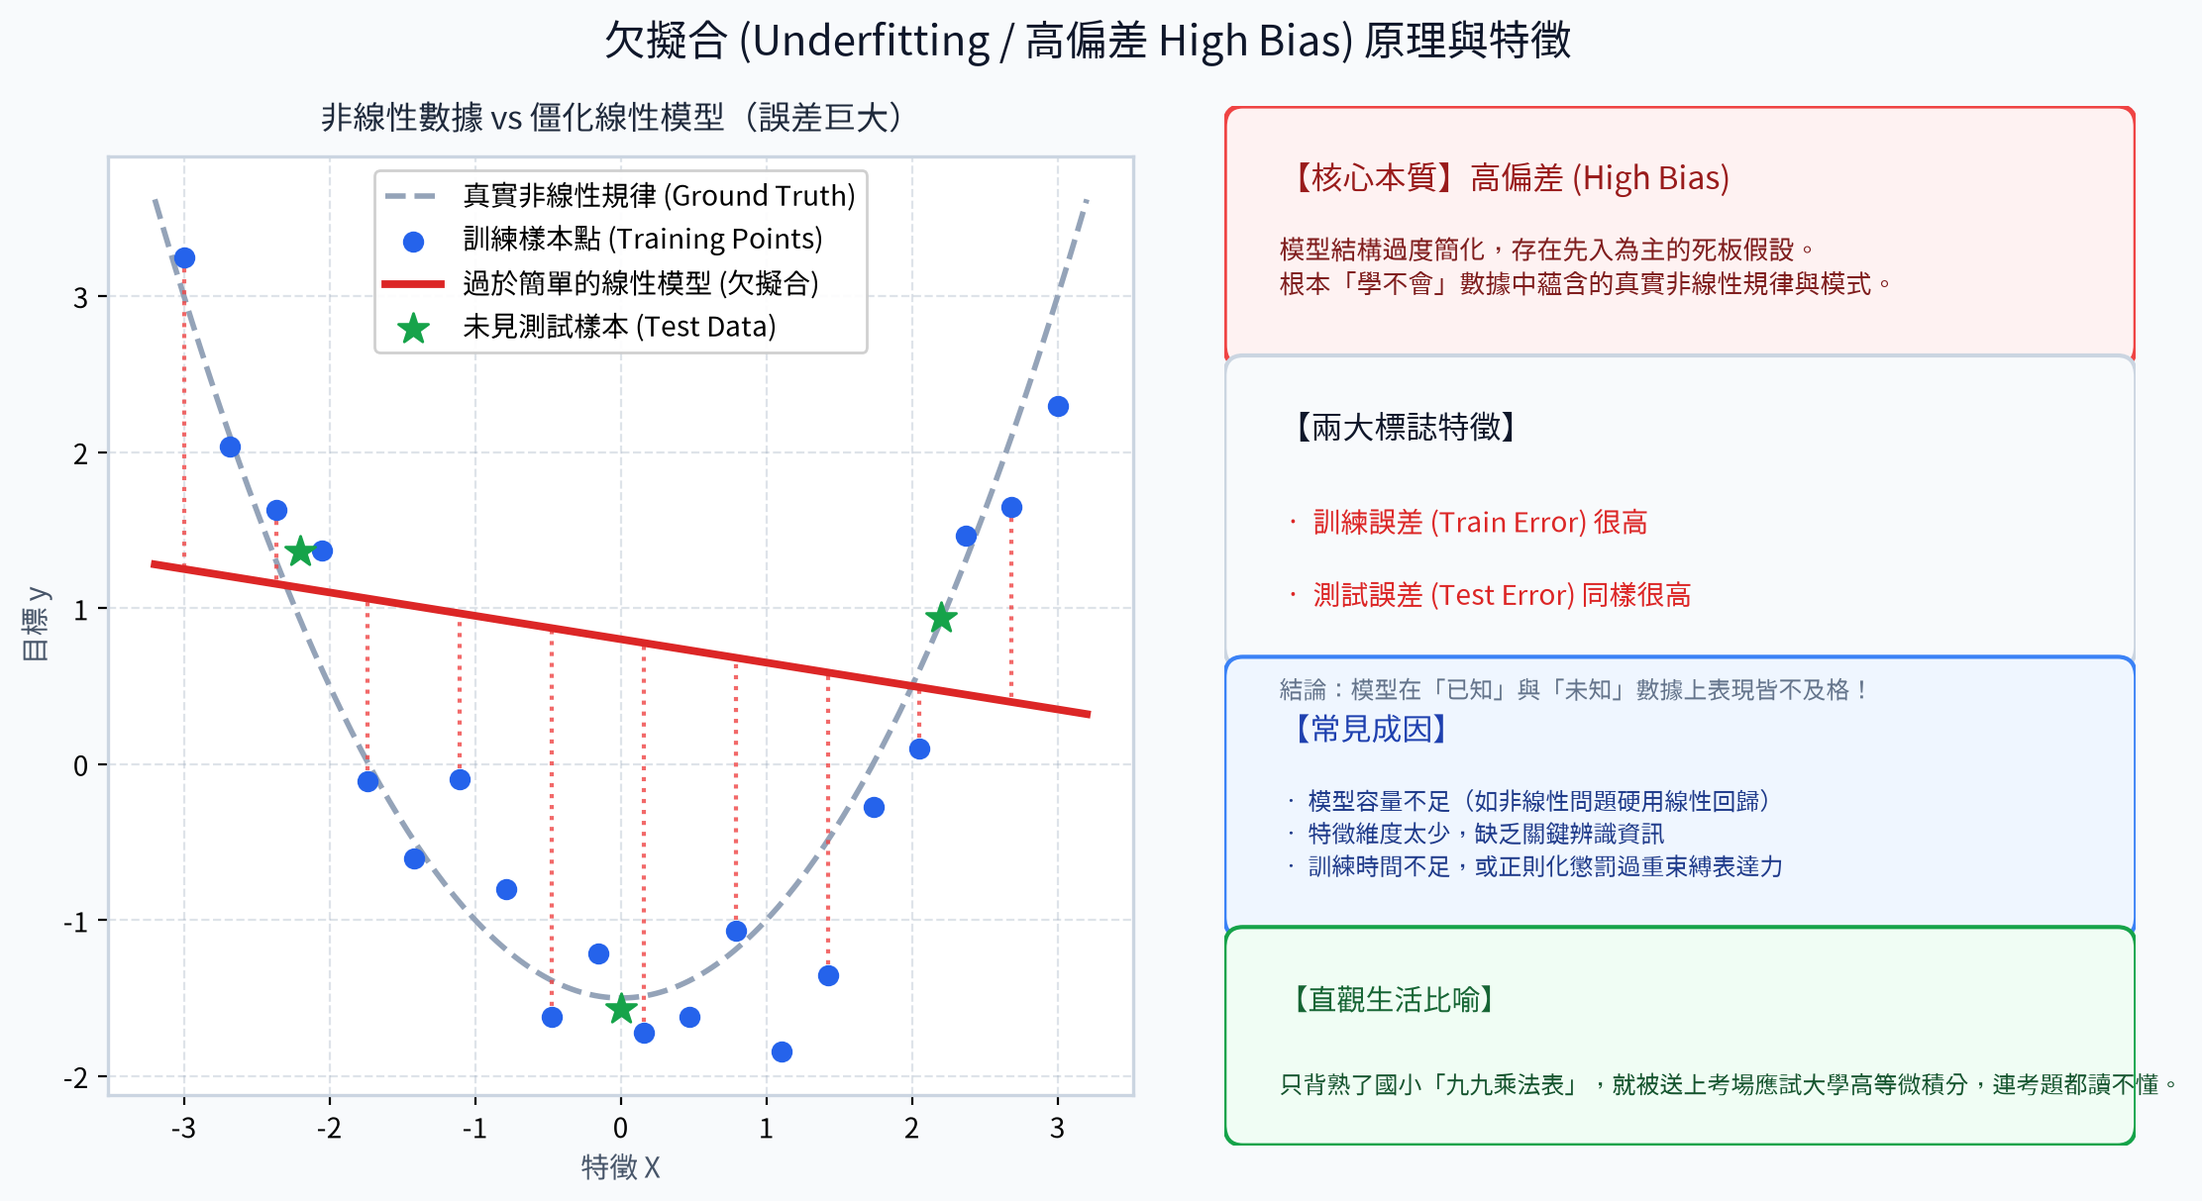
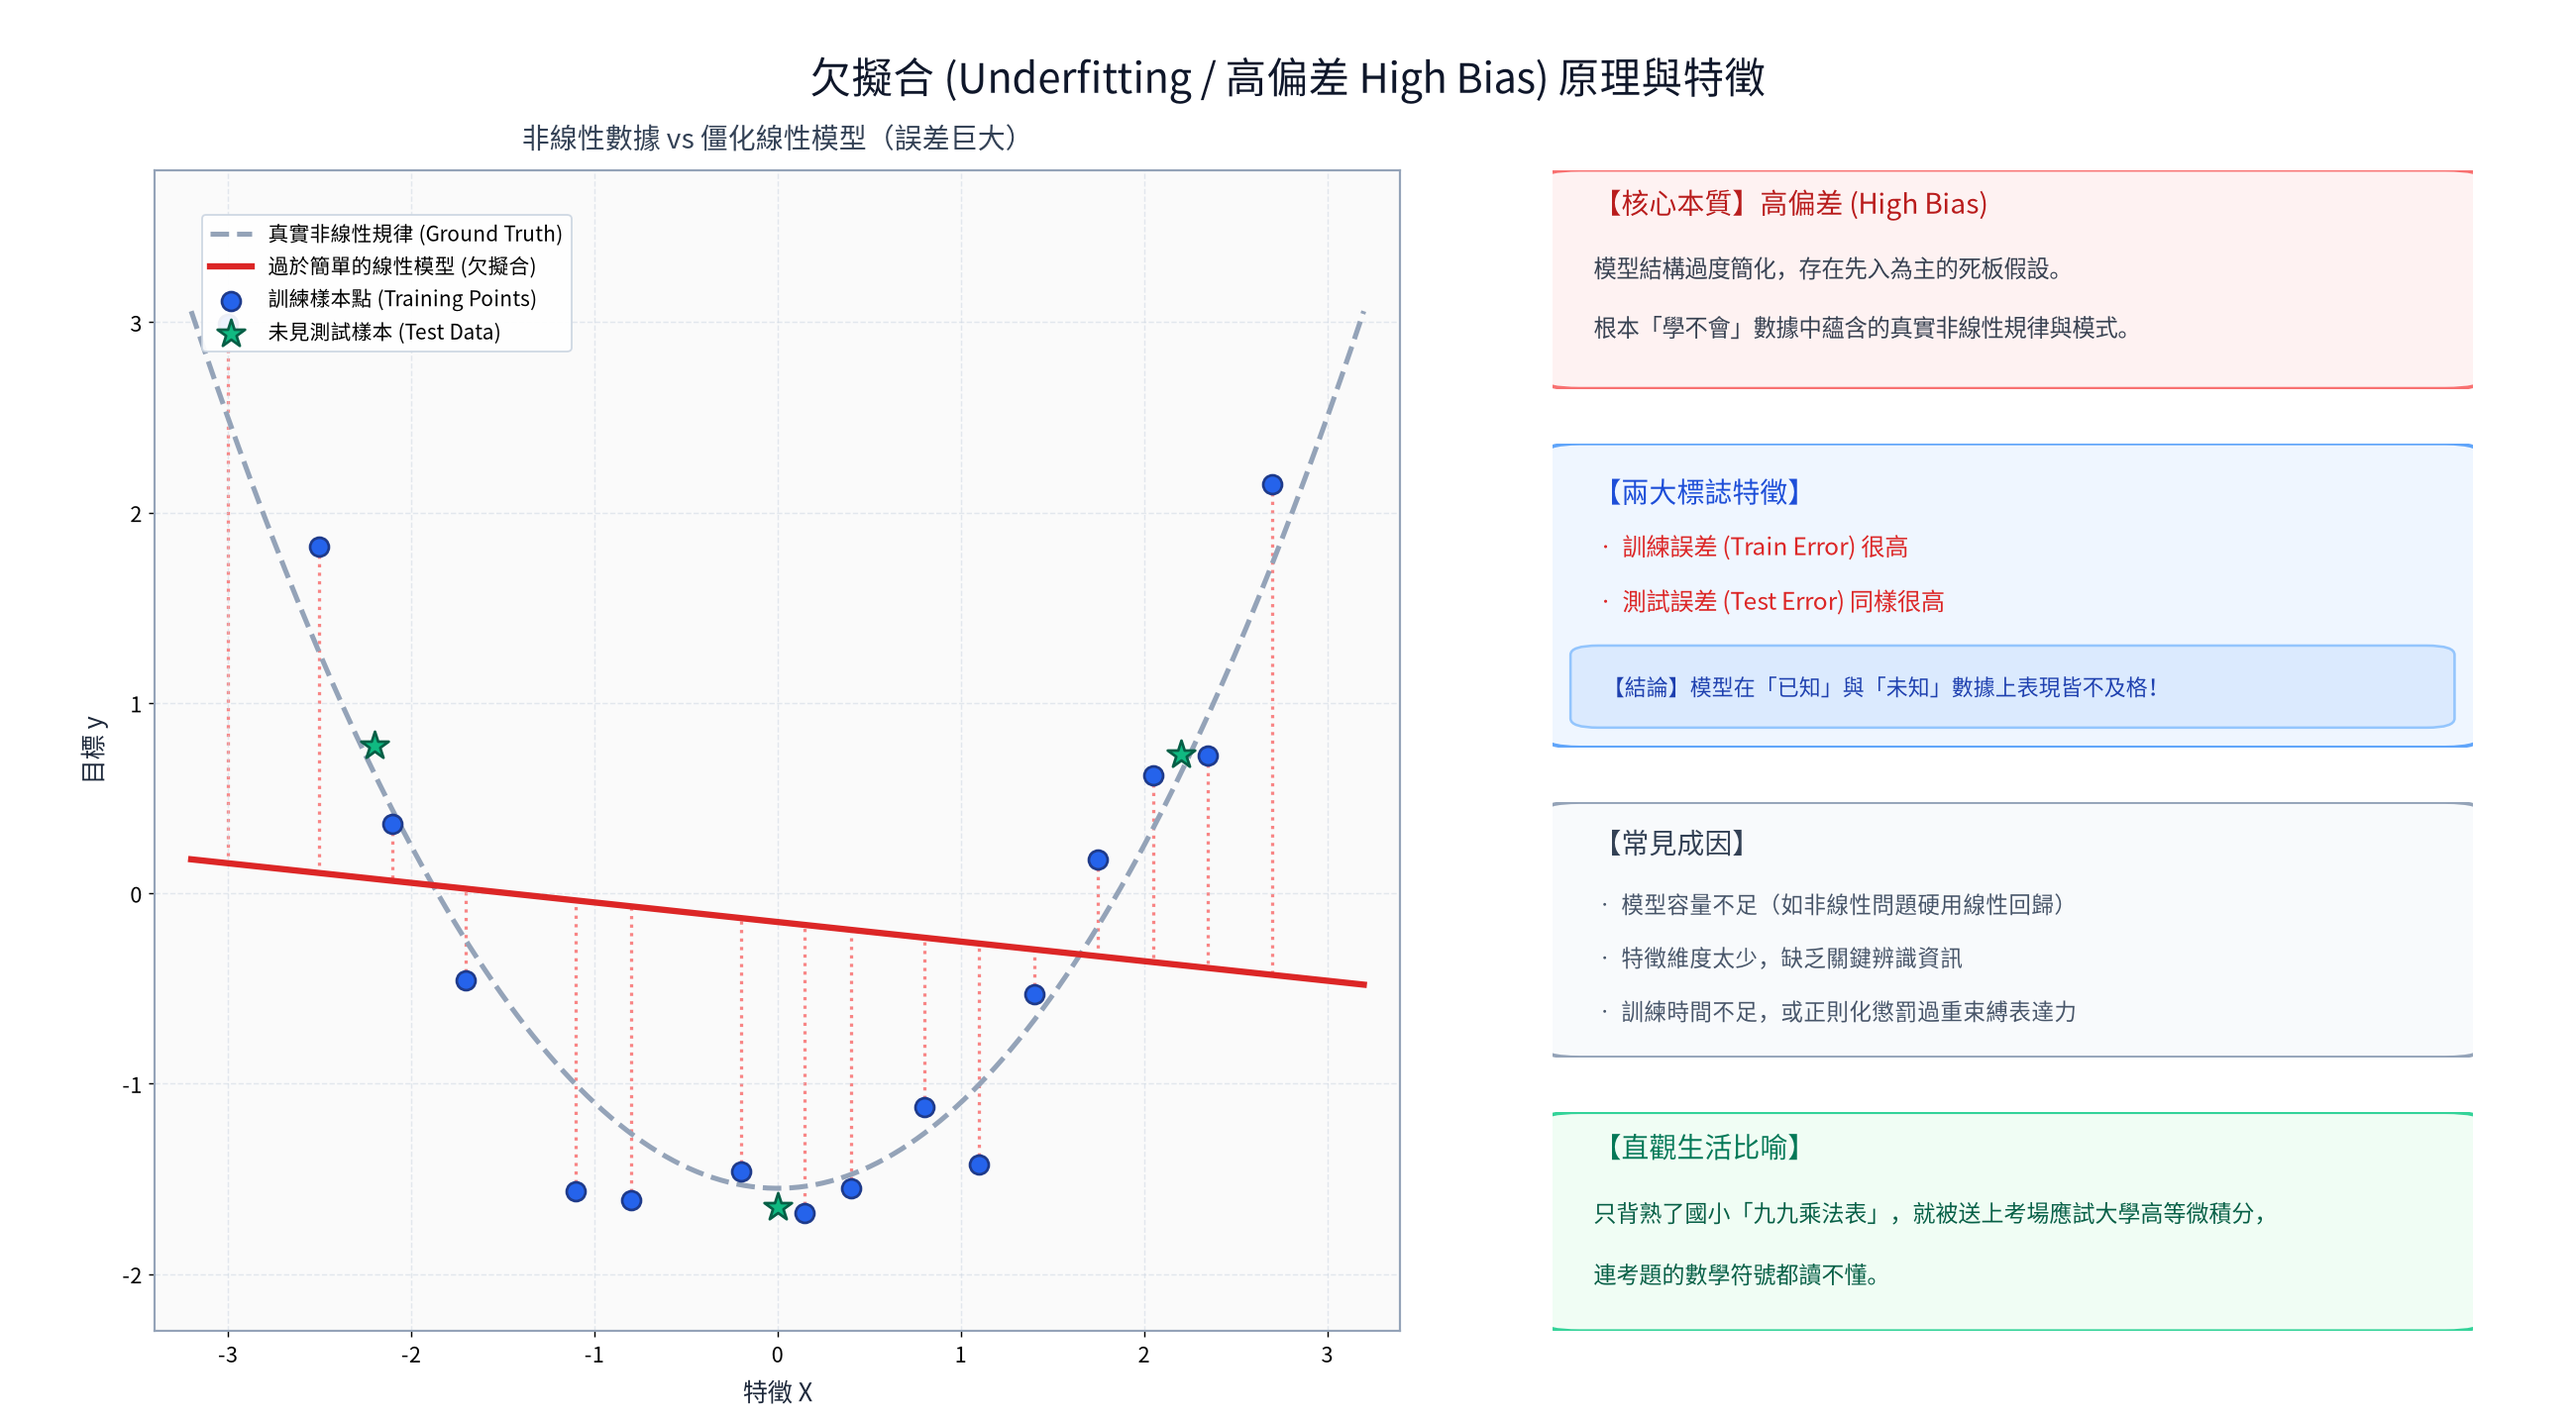
feat: add script to generate model performance charts and update underfitting and overfitting images

diff --git a/名詞解釋/10_模型性能問題/draw_model_performance_charts.py b/名詞解釋/10_模型性能問題/draw_model_performance_charts.py
@@ -1,0 +1,297 @@
+import os
+import glob
+import numpy as np
+import matplotlib.pyplot as plt
+from matplotlib import font_manager
+from matplotlib.patches import FancyBboxPatch
+import mplfonts
+from mplfonts import use_font
+
+# 1. 配置中文字型
+for f in glob.glob(os.path.join(os.path.dirname(mplfonts.__file__), "fonts", "*.[ot]tf")):
+    font_manager.fontManager.addfont(f)
+
+local_font = os.path.abspath(os.path.join("..", "ChineseFont.ttf"))
+if os.path.exists(local_font):
+    font_manager.fontManager.addfont(local_font)
+
+use_font("Noto Sans CJK SC")
+plt.rcParams["axes.unicode_minus"] = False
+
+# 2. 準備共享數據
+np.random.seed(42)
+# 真實非線性規律 f(x) = 0.45 * x^2 - 1.55
+def ground_truth(x):
+    return 0.45 * x**2 - 1.55
+
+# 訓練樣本點 (16 個點)
+X_train = np.array([-3.0, -2.5, -2.1, -1.7, -1.1, -0.8, -0.2, 0.15, 0.4, 0.8, 1.1, 1.4, 1.75, 2.05, 2.35, 2.7])
+noise = np.array([0.7, 0.8, -0.1, -0.3, -0.8, -0.5, 0.1, -0.2, -0.1, 0.2, -0.6, 0.2, 0.5, 0.4, -0.3, 0.6]) * 0.7
+y_train = ground_truth(X_train) + noise
+
+# 密集繪圖點
+x_dense = np.linspace(-3.2, 3.2, 300)
+y_dense_truth = ground_truth(x_dense)
+
+# 測試樣本點 (未見新數據)
+X_test_under = np.array([-2.2, 0.0, 2.2])
+y_test_under = ground_truth(X_test_under) + np.array([0.15, -0.1, 0.1])
+
+X_test_over = np.array([-2.5, -0.6, 1.2, 2.7])
+y_test_over = ground_truth(X_test_over) + np.array([-0.2, 0.1, 0.15, 0.25])
+
+
+def draw_card(ax, border_color, bg_color, title, title_color, body_lines, footer_badge=None):
+    ax.axis("off")
+    ax.set_xlim(0, 1)
+    ax.set_ylim(0, 1)
+    
+    # 繪製圓角卡片背景
+    card = FancyBboxPatch(
+        (0.01, 0.02), 0.98, 0.96,
+        boxstyle="round,pad=0.02,rounding_size=0.04",
+        edgecolor=border_color,
+        facecolor=bg_color,
+        linewidth=2.0,
+        zorder=1
+    )
+    ax.add_patch(card)
+    
+    # 卡片標題
+    ax.text(0.045, 0.84, title, fontsize=15.5, color=title_color, va="center", zorder=2)
+    
+    # 內文 lines
+    for line in body_lines:
+        ax.text(0.045, line["y"], line["text"], fontsize=line.get("size", 13), 
+                color=line.get("color", "#374151"), va="center", zorder=2)
+        
+    # 底部結論徽章 (若有，位置明確設定在 y=0.08 到 0.32)
+    if footer_badge:
+        badge_box = FancyBboxPatch(
+            (0.035, 0.08), 0.93, 0.24,
+            boxstyle="round,pad=0.015,rounding_size=0.03",
+            edgecolor=footer_badge["border"],
+            facecolor=footer_badge["bg"],
+            linewidth=1.4,
+            zorder=2
+        )
+        ax.add_patch(badge_box)
+        ax.text(0.055, 0.20, footer_badge["text"], fontsize=12.2,
+                color=footer_badge["color"], va="center", zorder=3)
+
+
+# ==========================================
+# 圖 1: 欠擬合 (Underfitting)
+# ==========================================
+def generate_underfitting_image(out_path):
+    fig = plt.figure(figsize=(20, 11), dpi=130, facecolor="#ffffff")
+    fig.suptitle("欠擬合 (Underfitting / 高偏差 High Bias) 原理與特徵", fontsize=23, color="#0f172a", y=0.96)
+    
+    # 使用不等高比例 height_ratios: 卡片2高度設為 1.25，確保三層資訊極致寬敞絕不重疊
+    gs = fig.add_gridspec(nrows=4, ncols=2, width_ratios=[1.15, 0.85], 
+                           height_ratios=[0.9, 1.25, 1.05, 0.9],
+                           left=0.06, right=0.96, bottom=0.06, top=0.88, 
+                           hspace=0.22, wspace=0.14)
+    
+    # --- 左側圖表 ---
+    ax_plot = fig.add_subplot(gs[:, 0])
+    ax_plot.set_facecolor("#fafafa")
+    ax_plot.grid(True, linestyle="--", color="#cbd5e1", alpha=0.5, zorder=0)
+    
+    # 1. 真實非線性規律
+    ax_plot.plot(x_dense, y_dense_truth, linestyle="--", color="#94a3b8", linewidth=2.8, label="真實非線性規律 (Ground Truth)", zorder=2)
+    
+    # 2. 欠擬合模型 (線性回歸直線)
+    poly1 = np.polyfit(X_train, y_train, deg=1)
+    y_pred_under_dense = np.polyval(poly1, x_dense)
+    y_pred_under_train = np.polyval(poly1, X_train)
+    ax_plot.plot(x_dense, y_pred_under_dense, color="#dc2626", linewidth=3.5, label="過於簡單的線性模型 (欠擬合)", zorder=3)
+    
+    # 3. 殘差線
+    for xi, yi, y_hat in zip(X_train, y_train, y_pred_under_train):
+        ax_plot.plot([xi, xi], [yi, y_hat], linestyle=":", color="#f87171", linewidth=1.8, alpha=0.85, zorder=1)
+        
+    # 4. 訓練樣本點
+    ax_plot.scatter(X_train, y_train, s=110, color="#2563eb", edgecolor="#1e3a8a", linewidth=1.5, label="訓練樣本點 (Training Points)", zorder=4)
+    
+    # 5. 未見測試樣本
+    ax_plot.scatter(X_test_under, y_test_under, s=260, marker="*", color="#10b981", edgecolor="#065f46", linewidth=1.5, label="未見測試樣本 (Test Data)", zorder=5)
+    
+    ax_plot.set_title("非線性數據 vs 僵化線性模型（誤差巨大）", fontsize=15.5, pad=12, color="#334155")
+    ax_plot.set_xlabel("特徵 X", fontsize=14, labelpad=8, color="#1e293b")
+    ax_plot.set_ylabel("目標 y", fontsize=14, labelpad=8, color="#1e293b")
+    ax_plot.set_xlim(-3.4, 3.4)
+    ax_plot.set_ylim(-2.3, 3.8)
+    ax_plot.tick_params(labelsize=12)
+    ax_plot.legend(loc="upper left", bbox_to_anchor=(0.03, 0.97), framealpha=0.92, facecolor="#ffffff", edgecolor="#cbd5e1", fontsize=11.5)
+    
+    for spine in ax_plot.spines.values():
+        spine.set_color("#94a3b8")
+        spine.set_linewidth(1.2)
+        
+    # --- 右側 4 個卡片 ---
+    # 卡片 1: 核心本質
+    ax1 = fig.add_subplot(gs[0, 1])
+    draw_card(
+        ax1, border_color="#f87171", bg_color="#fef2f2",
+        title="【核心本質】高偏差 (High Bias)", title_color="#b91c1c",
+        body_lines=[
+            {"text": "模型結構過度簡化，存在先入為主的死板假設。", "size": 13, "y": 0.55, "color": "#374151"},
+            {"text": "根本「學不會」數據中蘊含的真實非線性規律與模式。", "size": 13, "y": 0.28, "color": "#374151"}
+        ]
+    )
+    
+    # 卡片 2: 兩大標誌特徵 (高 1.25，Y 軸精確分佈在 0.84, 0.66, 0.48, 徽章在 0.08~0.32)
+    ax2 = fig.add_subplot(gs[1, 1])
+    draw_card(
+        ax2, border_color="#60a5fa", bg_color="#eff6ff",
+        title="【兩大標誌特徵】", title_color="#1d4ed8",
+        body_lines=[
+            {"text": "• 訓練誤差 (Train Error) 很高", "size": 13.5, "color": "#dc2626", "y": 0.66},
+            {"text": "• 測試誤差 (Test Error) 同樣很高", "size": 13.5, "color": "#dc2626", "y": 0.48}
+        ],
+        footer_badge={
+            "border": "#93c5fd", "bg": "#dbeafe",
+            "color": "#1e40af", "text": "【結論】模型在「已知」與「未知」數據上表現皆不及格！"
+        }
+    )
+    
+    # 卡片 3: 常見成因
+    ax3 = fig.add_subplot(gs[2, 1])
+    draw_card(
+        ax3, border_color="#94a3b8", bg_color="#f8fafc",
+        title="【常見成因】", title_color="#334155",
+        body_lines=[
+            {"text": "• 模型容量不足（如非線性問題硬用線性回歸）", "size": 12.5, "y": 0.60, "color": "#475569"},
+            {"text": "• 特徵維度太少，缺乏關鍵辨識資訊", "size": 12.5, "y": 0.39, "color": "#475569"},
+            {"text": "• 訓練時間不足，或正則化懲罰過重束縛表達力", "size": 12.5, "y": 0.18, "color": "#475569"}
+        ]
+    )
+    
+    # 卡片 4: 直觀生活比喻
+    ax4 = fig.add_subplot(gs[3, 1])
+    draw_card(
+        ax4, border_color="#34d399", bg_color="#f0fdf4",
+        title="【直觀生活比喻】", title_color="#047857",
+        body_lines=[
+            {"text": "只背熟了國小「九九乘法表」，就被送上考場應試大學高等微積分，", "size": 12.8, "y": 0.54, "color": "#065f46"},
+            {"text": "連考題的數學符號都讀不懂。", "size": 12.8, "y": 0.26, "color": "#065f46"}
+        ]
+    )
+    
+    plt.savefig(out_path, dpi=130, facecolor=fig.get_facecolor(), edgecolor="none")
+    plt.close()
+    print(f"成功生成欠擬合圖片: {out_path}")
+
+
+# ==========================================
+# 圖 2: 過度擬合 (Overfitting)
+# ==========================================
+def generate_overfitting_image(out_path):
+    fig = plt.figure(figsize=(20, 11), dpi=130, facecolor="#ffffff")
+    fig.suptitle("過度擬合 (Overfitting / 高變異數 High Variance) 原理與特徵", fontsize=23, color="#0f172a", y=0.96)
+    
+    gs = fig.add_gridspec(nrows=4, ncols=2, width_ratios=[1.15, 0.85], 
+                           height_ratios=[0.9, 1.25, 1.05, 0.9],
+                           left=0.06, right=0.96, bottom=0.06, top=0.88, 
+                           hspace=0.22, wspace=0.14)
+    
+    # --- 左側圖表 ---
+    ax_plot = fig.add_subplot(gs[:, 0])
+    ax_plot.set_facecolor("#fafafa")
+    ax_plot.grid(True, linestyle="--", color="#cbd5e1", alpha=0.5, zorder=0)
+    
+    # 1. 真實規律
+    ax_plot.plot(x_dense, y_dense_truth, linestyle="--", color="#94a3b8", linewidth=2.8, label="真實規律 (Ground Truth)", zorder=2)
+    
+    # 2. 過擬合模型
+    poly_over = np.polyfit(X_train, y_train, deg=11)
+    y_pred_over_dense = np.polyval(poly_over, x_dense)
+    ax_plot.plot(x_dense, y_pred_over_dense, color="#9333ea", linewidth=3.5, label="過度複雜的高階模型 (過擬合)", zorder=3)
+    
+    # 3. 訓練樣本點
+    ax_plot.scatter(X_train, y_train, s=110, color="#2563eb", edgecolor="#1e3a8a", linewidth=1.5, label="訓練樣本點 (含隨機雜訊)", zorder=4)
+    
+    # 4. 新測試樣本
+    ax_plot.scatter(X_test_over, y_test_over, s=260, marker="*", color="#10b981", edgecolor="#065f46", linewidth=1.5, label="新測試樣本 (Test Data)", zorder=5)
+    
+    # 標註提示
+    ax_plot.annotate("死記雜訊導致\n兩端劇烈翹曲！", xy=(-3.0, 3.8), xytext=(-2.7, 4.5),
+                    arrowprops=dict(facecolor="#9333ea", shrink=0.08, width=1.5, headwidth=6),
+                    fontsize=11.5, color="#7e22ce")
+    
+    ax_plot.set_title("死記硬背雜訊 vs 泛化能力崩潰", fontsize=15.5, pad=12, color="#334155")
+    ax_plot.set_xlabel("特徵 X", fontsize=14, labelpad=8, color="#1e293b")
+    ax_plot.set_ylabel("目標 y", fontsize=14, labelpad=8, color="#1e293b")
+    ax_plot.set_xlim(-3.4, 3.4)
+    ax_plot.set_ylim(-3.3, 5.3)
+    ax_plot.tick_params(labelsize=12)
+    ax_plot.legend(loc="upper center", bbox_to_anchor=(0.50, 0.98), framealpha=0.92, facecolor="#ffffff", edgecolor="#cbd5e1", fontsize=11.5)
+    
+    for spine in ax_plot.spines.values():
+        spine.set_color("#94a3b8")
+        spine.set_linewidth(1.2)
+        
+    # --- 右側 4 個卡片 ---
+    # 卡片 1: 核心本質
+    ax1 = fig.add_subplot(gs[0, 1])
+    draw_card(
+        ax1, border_color="#c084fc", bg_color="#faf5ff",
+        title="【核心本質】高變異數 (High Variance)", title_color="#7e22ce",
+        body_lines=[
+            {"text": "模型容量過大，過分敏感於訓練集中的細微雜訊。", "size": 13, "y": 0.55, "color": "#374151"},
+            {"text": "連偶發的數據缺陷與噪點都全盤硬背吸收，喪失泛化能力。", "size": 13, "y": 0.28, "color": "#374151"}
+        ]
+    )
+    
+    # 卡片 2: 兩大標誌特徵 (含泛化鴻溝徽章，絕對不重疊)
+    ax2 = fig.add_subplot(gs[1, 1])
+    draw_card(
+        ax2, border_color="#60a5fa", bg_color="#eff6ff",
+        title="【兩大標誌特徵】", title_color="#1d4ed8",
+        body_lines=[
+            {"text": "• 訓練誤差 (Train Error) 極低 (甚至為 0)", "size": 13.5, "color": "#16a34a", "y": 0.66},
+            {"text": "• 測試誤差 (Test Error) 嚴重飆高", "size": 13.5, "color": "#dc2626", "y": 0.48}
+        ],
+        footer_badge={
+            "border": "#fca5a5", "bg": "#fee2e2",
+            "color": "#b91c1c", "text": "【結論】兩者形成巨大「泛化鴻溝 (Generalization Gap)」！"
+        }
+    )
+    
+    # 卡片 3: 常見成因
+    ax3 = fig.add_subplot(gs[2, 1])
+    draw_card(
+        ax3, border_color="#94a3b8", bg_color="#f8fafc",
+        title="【常見成因】", title_color="#334155",
+        body_lines=[
+            {"text": "• 模型過於複雜（參數龐大、樹深無限制）", "size": 12.5, "y": 0.60, "color": "#475569"},
+            {"text": "• 訓練數據樣本量太少，無法覆蓋真實分佈", "size": 12.5, "y": 0.39, "color": "#475569"},
+            {"text": "• 缺乏正則化約束或迭代訓練次數過多", "size": 12.5, "y": 0.18, "color": "#475569"}
+        ]
+    )
+    
+    # 卡片 4: 直觀生活比喻
+    ax4 = fig.add_subplot(gs[3, 1])
+    draw_card(
+        ax4, border_color="#fb923c", bg_color="#fff7ed",
+        title="【直觀生活比喻】", title_color="#c2410c",
+        body_lines=[
+            {"text": "死記硬背考古題的「題號與標點符號」，", "size": 13, "y": 0.54, "color": "#9a3412"},
+            {"text": "大考題目稍微抽換數值，立刻交白卷崩潰。", "size": 13, "y": 0.26, "color": "#9a3412"}
+        ]
+    )
+    
+    plt.savefig(out_path, dpi=130, facecolor=fig.get_facecolor(), edgecolor="none")
+    plt.close()
+    print(f"成功生成過度擬合圖片: {out_path}")
+
+
+if __name__ == "__main__":
+    generate_underfitting_image("images/01_underfitting.png")
+    generate_overfitting_image("images/02_overfitting.png")
+    
+    docs_img_dir = os.path.abspath("../../docs/glossary/10-model-performance/assets/images")
+    if os.path.exists(docs_img_dir):
+        generate_underfitting_image(os.path.join(docs_img_dir, "01_underfitting.png"))
+        generate_overfitting_image(os.path.join(docs_img_dir, "02_overfitting.png"))
